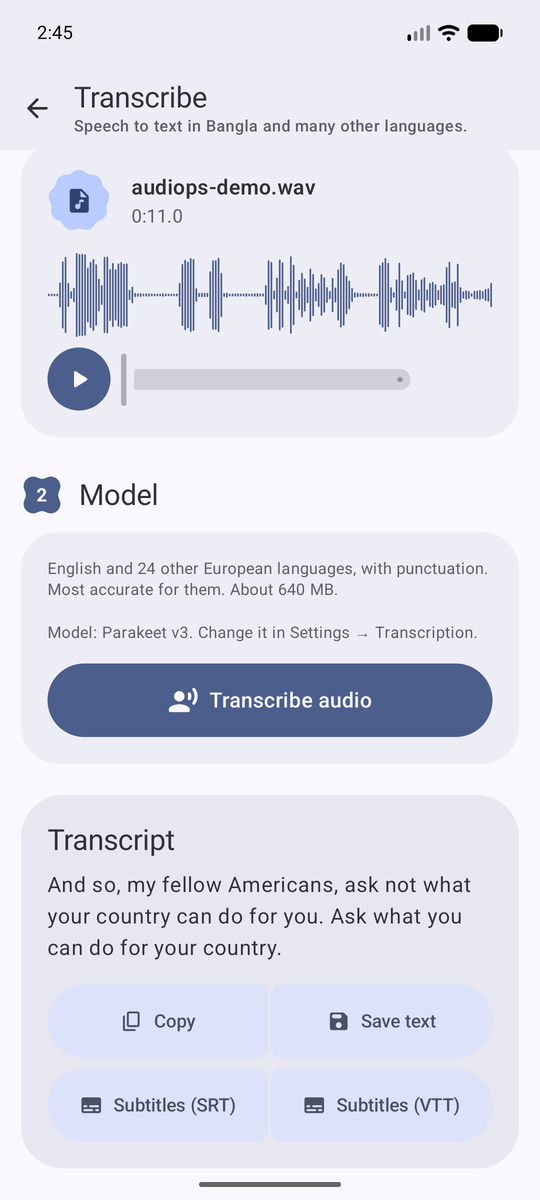
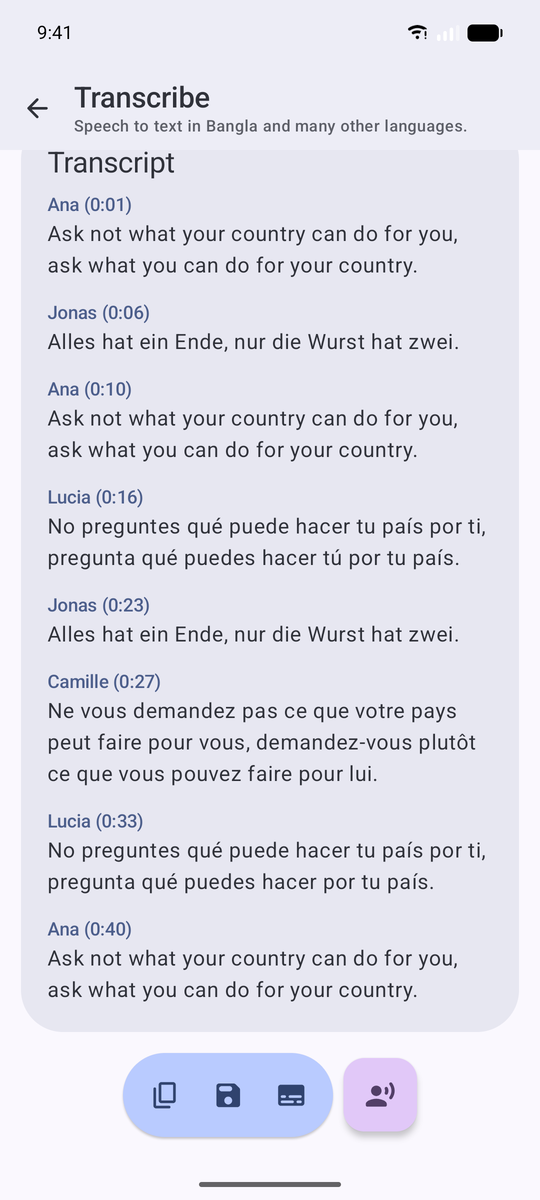
Bring the website and README up to 0.6.1 with new screenshots

diff --git a/website/index.html b/website/index.html
@@ -4,10 +4,10 @@
   <meta charset="utf-8">
   <meta name="viewport" content="width=device-width, initial-scale=1">
   <title>Audiops: on-device audio toolkit for Android</title>
-  <meta name="description" content="Enhance, transcribe, speak, separate, edit and analyze audio, entirely on your Android phone. Nothing you open is uploaded. Open source.">
+  <meta name="description" content="On-device audio AI for Android: transcribe files and live meetings with speakers in Bangla and 1,600+ languages, speak text in 37, enhance, separate, edit and analyze audio. Nothing is uploaded. Open source.">
   <meta name="theme-color" content="#5B47C8">
   <meta property="og:title" content="Audiops: on-device audio toolkit">
-  <meta property="og:description" content="Clean up, edit, transcribe, speak and analyze audio on your phone. Nothing is uploaded.">
+  <meta property="og:description" content="On-device audio AI: transcribe meetings with speakers, speak text, clean up and edit audio on your phone. Nothing is uploaded.">
   <meta property="og:type" content="website">
   <meta property="og:image" content="images/screenshots/tools.png">
   <link rel="icon" href="images/logo.svg" type="image/svg+xml">
@@ -25,6 +25,7 @@
     </a>
     <nav class="nav__links" aria-label="Main">
       <a href="#features">Features</a>
+      <a href="#languages">Languages</a>
       <a href="#privacy">Privacy</a>
       <a href="#build">Build</a>
     </nav>
@@ -38,10 +39,11 @@
     <div class="wrap hero__grid">
       <div class="hero__copy">
         <p class="eyebrow">Open source · Android 8.0+</p>
-        <h1>Transform audio,<br>without the cloud.</h1>
+        <h1>On-device audio AI,<br>without the cloud.</h1>
         <p class="lede">
-          Enhance, transcribe, speak, separate, edit and analyze recordings entirely on your phone.
-          Nothing you open is uploaded. The AI models download once, then run offline.
+          Transcribe recordings and live meetings with every speaker named, turn text into natural speech,
+          and enhance, separate, edit and analyze audio, entirely on your phone. In Bangla and well over
+          a thousand other languages. Nothing you open is uploaded; the AI models download once, then run offline.
         </p>
         <div class="actions">
           <a class="btn btn--primary" href="https://github.com/sayedshaun/audiops/releases/latest">
@@ -58,7 +60,7 @@
 
       <div class="hero__visual">
         <figure class="phone">
-          <img src="images/screenshots/tools.png" alt="Audiops Tools screen with a recording loaded and the AI tools" width="540" height="1200" loading="eager">
+          <img src="images/screenshots/tools.png" alt="Audiops Tools tab: the Audiops wordmark, Choose file and Record, and the AI tools as large tiles" width="540" height="1200" loading="eager">
         </figure>
       </div>
     </div>
@@ -68,9 +70,9 @@
   <section class="section" id="features">
     <div class="wrap">
       <header class="section__head">
-        <p class="eyebrow">Fourteen tools, one app</p>
-        <h2>Everything you need for a voice note, a podcast or a lecture.</h2>
-        <p>Pick a tool, choose a file (or record one, or share it from another app), and keep the result. Save it as WAV, M4A or Opus. Open MP3, AAC, FLAC, OGG and anything else your phone can decode.</p>
+        <p class="eyebrow">Fifteen tools, one app</p>
+        <h2>Everything you need for a meeting, a voice note, a podcast or a lecture.</h2>
+        <p>Choose a file (or record one, or share it from another app) and Audiops tells you what it sounds like and which tool to try. Keep the result as WAV, M4A or Opus. Open MP3, AAC, FLAC, OGG and anything else your phone can decode.</p>
       </header>
 
       <div class="categories">
@@ -79,8 +81,9 @@
           <ul class="tools">
             <li><strong>Enhance speech</strong><span>Fast noise removal in seconds, or Studio restoration of voice recordings, on device.</span></li>
             <li><strong>Separate music</strong><span>Split a song into vocals, instrumental, drums, bass and other.</span></li>
-            <li><strong>Transcribe</strong><span>Speech to text with punctuation for English and 24 European languages, plus Bangla, Urdu and over 1,600 more. You pick the model: Parakeet, Omnilingual, Whisper or Bangla. Save subtitles as SRT or VTT.</span></li>
-            <li><strong>Text to speech</strong><span>Turn text into speech in 37 languages, on your phone.</span></li>
+            <li><strong>Transcribe</strong><span>Choose the language, then the model for it: punctuated text for English and 24 European languages, a dedicated Bangla model, and over 1,600 more languages with a sentence at every pause. Tell speakers apart, then name them. Save the text or subtitles (SRT, VTT).</span></li>
+            <li><strong>Live meeting</strong><span>Put the phone on the table and the meeting is written down as people speak, with each speaker told apart, even with the screen off. Name the speakers afterwards and Audiops recognises their voices in later meetings.</span></li>
+            <li><strong>Text to speech</strong><span>Natural voices in 37 languages, plus ten extra English voices (US and UK).</span></li>
           </ul>
         </article>
 
@@ -114,11 +117,29 @@
           <h3><span class="dot dot--utilities"></span>Utilities</h3>
           <ul class="tools">
             <li><strong>Convert</strong><span>Anti-aliased resampling to 8, 16, 22.05, 44.1 or 48 kHz.</span></li>
-            <li><strong>Analyze</strong><span>Integrated loudness, peak, RMS, clipping, silence and DC offset.</span></li>
+            <li><strong>Analyze</strong><span>Integrated loudness, peak, RMS, clipping, silence and DC offset, plus the main sounds heard (speech, music, noise and over 500 more).</span></li>
           </ul>
         </article>
       </div>
 
+    </div>
+  </section>
+
+  <!-- Languages -->
+  <section class="section" id="languages" aria-labelledby="languages-title">
+    <div class="wrap">
+      <header class="section__head section__head--center">
+        <p class="eyebrow">Many languages</p>
+        <h2 id="languages-title">Made for the languages people speak.</h2>
+        <p>Audiops starts with the language, not the model. Pick what is spoken and only the models that handle it are offered, the best one first. Features that would only work in English are left out.</p>
+      </header>
+      <ul class="checks">
+        <li>Bangla has its own speech recognition model.</li>
+        <li>Speech to text in over 1,600 languages, with punctuation for English and 24 European languages.</li>
+        <li>Every language gets sentences: a capital letter and its own full stop (।, 。 or .) at each pause.</li>
+        <li>Text to speech in 37 languages.</li>
+        <li>Speaker labels and names work in every language.</li>
+      </ul>
     </div>
   </section>
 
@@ -131,16 +152,16 @@
       </header>
       <div class="shots">
         <figure>
-          <img src="images/screenshots/tool-enhance.png" alt="Enhance speech tool with Fast and Studio modes and a finished result" width="540" height="1200" loading="lazy">
-          <figcaption>Enhance speech: Fast or Studio</figcaption>
+          <img src="images/screenshots/meeting.png" alt="Live meeting in progress: the running time, a level meter, and what each speaker said as they speak" width="540" height="1200" loading="lazy">
+          <figcaption>Live meeting, written down as people speak</figcaption>
         </figure>
         <figure>
-          <img src="images/screenshots/transcript.png" alt="Transcript screen showing text transcribed from a recording" width="540" height="1200" loading="lazy">
-          <figcaption>Transcription, on the device</figcaption>
+          <img src="images/screenshots/speakers.png" alt="Who is speaking? sheet with the first words of each speaker and a name field for each" width="540" height="1200" loading="lazy">
+          <figcaption>Name the speakers once</figcaption>
         </figure>
         <figure>
-          <img src="images/screenshots/activity.png" alt="Activity tab listing finished jobs" width="540" height="1200" loading="lazy">
-          <figcaption>Activity, with the job queue and history</figcaption>
+          <img src="images/screenshots/transcript.png" alt="Transcript in English, German, Spanish and French with each turn headed by the speaker's name and time, and a floating toolbar" width="540" height="1200" loading="lazy">
+          <figcaption>Transcripts with names, in any language</figcaption>
         </figure>
       </div>
     </div>
@@ -159,6 +180,7 @@
         <li>No accounts, no analytics and no server.</li>
         <li>Every model file is pinned to a fixed revision and checked with SHA-256 before use.</li>
         <li>Models live in app-private storage that is excluded from backups.</li>
+        <li>Voice prints of the speakers you name stay on the phone; forget any of them in Settings.</li>
         <li>Delete any model or processed file from Settings, at any time.</li>
       </ul>
     </div>
@@ -202,8 +224,8 @@
         <p>No dates, no promises. Have a request? <a href="https://github.com/sayedshaun/audiops/issues">Open an issue</a>.</p>
       </header>
       <ul class="roadmap">
-        <li>Speaker labels in transcripts</li>
-        <li>Detect sounds in a recording (speech, music, alarms and more)</li>
+        <li>Live captions word by word, in many languages (not English only)</li>
+        <li>Faster AI on the phone's AI chip (NPU)</li>
         <li>A lighter vocoder, so AI enhancement fits phones with 4 GB of RAM</li>
         <li>Stereo stems for music separation</li>
       </ul>

diff --git a/README.md b/README.md
@@ -6,8 +6,8 @@
 
 [![Build and test](https://github.com/sayedshaun/audiops/actions/workflows/android.yml/badge.svg)](https://github.com/sayedshaun/audiops/actions/workflows/android.yml) [![Release](https://img.shields.io/github/v/release/sayedshaun/audiops?include_prereleases&sort=semver&label=release)](https://github.com/sayedshaun/audiops/releases) [![License: Apache 2.0](https://img.shields.io/badge/license-Apache%202.0-blue)](LICENSE) ![Platform](https://img.shields.io/badge/platform-Android-5B47C8) ![Kotlin Multiplatform](https://img.shields.io/badge/Kotlin-Multiplatform-7F52FF?logo=kotlin&logoColor=white) ![Material 3 Expressive](https://img.shields.io/badge/Material%203-Expressive-6750A4?logo=materialdesign&logoColor=white)
 
-**Enhance, transcribe, speak, separate, edit and analyze audio, entirely on your device.**<br>
-Nothing you open is uploaded. AI models download once, then run offline.
+**On-device audio AI: transcribe meetings with speakers, speak text, enhance, separate, edit and analyze audio, entirely on your phone.**<br>
+In Bangla and well over a thousand other languages. Nothing you open is uploaded; AI models download once, then run offline.
 
 [**Download**](https://github.com/sayedshaun/audiops/releases/latest) · [Features](#features) · [Models](#models) · [Screenshots](#screenshots) · [Build from source](#build-from-source) · [Contributing](CONTRIBUTING.md)
 
@@ -18,7 +18,8 @@ Nothing you open is uploaded. AI models download once, then run offline.
 ## Why Audiops
 
 - **Private by design.** Audio never leaves your device. The app has no accounts, no analytics and no server. It asks for the microphone only when you tap Record, and for notifications only to show job progress.
-- **One toolkit, not ten apps.** Fourteen tools behind one consistent interface, with a queue so several jobs can run while you keep working.
+- **Many languages, not English first.** Pick the language and Audiops offers the models that handle it: a dedicated Bangla model, punctuated text for 25 European languages, over 1,600 languages with sentences at every pause, and text to speech in 37. Features that would only work in English are left out.
+- **One toolkit, not ten apps.** Fifteen tools behind one consistent interface, with a queue so several jobs can run while you keep working. Choose a file and Audiops says what it sounds like and suggests the tool to try.
 - **Built for long recordings.** Every tool streams audio in blocks, so a two-hour lecture uses the same memory as a voice note.
 - **Open source, one codebase.** Kotlin and Compose (Compose Multiplatform libraries), built for Android.
 
@@ -28,9 +29,9 @@ Nothing you open is uploaded. AI models download once, then run offline.
 | :-: | --- | --- |
 | ✨ | **Enhance speech** | **Fast** mode removes noise in seconds (DPDFNet); **Studio** mode restores voice recordings with [Resemble Enhance](https://huggingface.co/SayedShaun/resemble-enhance-litert) (LiteRT, mobile export), which takes minutes on a phone. |
 | 🎼 | **Separate music** | Splits a song into vocals, an instrumental, drums, bass and other instruments ([SCNet](https://github.com/starrytong/SCNet), int8 ONNX through ONNX Runtime). |
-| 🗣 | **Transcribe** | Speech to text in Bangla, Urdu and many other languages, with punctuation for English and European languages and a sentence at each pause for the rest; optionally tells the speakers apart ([Parakeet v3](https://huggingface.co/csukuangfj/sherpa-onnx-nemo-parakeet-tdt-0.6b-v3-int8), [Omnilingual ASR](https://huggingface.co/csukuangfj/sherpa-onnx-omnilingual-asr-1600-languages-300M-ctc-int8-2025-11-12), [Whisper Tiny](https://huggingface.co/ippocode/indic-asr-onnx/tree/1f6243ec6dffc4de2db84fe1446576d1ff52c252/models/whisper-tiny) and [Bangla Zipformer](https://huggingface.co/SayedShaun/bangla-zipformer-onnx); sherpa-onnx). |
+| 🗣 | **Transcribe** | Speech to text in Bangla, Urdu and many other languages, with punctuation for English and European languages and a sentence at each pause for the rest; optionally tells the speakers apart, and you can name them afterwards ([Parakeet v3](https://huggingface.co/csukuangfj/sherpa-onnx-nemo-parakeet-tdt-0.6b-v3-int8), [Omnilingual ASR](https://huggingface.co/csukuangfj/sherpa-onnx-omnilingual-asr-1600-languages-300M-ctc-int8-2025-11-12), [Whisper Tiny](https://huggingface.co/ippocode/indic-asr-onnx/tree/1f6243ec6dffc4de2db84fe1446576d1ff52c252/models/whisper-tiny) and [Bangla Zipformer](https://huggingface.co/SayedShaun/bangla-zipformer-onnx); sherpa-onnx). |
 | 👥 | **Live meeting** | Put the phone on the table: it transcribes the meeting as people speak and tells the speakers apart, with the screen off if you like. Saves the transcript (with speakers), subtitles and the recording. Name the speakers afterwards, and Audiops recognises those voices in later meetings (voice prints stay on the phone) ([Silero VAD](https://github.com/snakers4/silero-vad) finds speech, [CAM++](https://github.com/modelscope/3D-Speaker) voice embeddings tell speakers apart, and the transcription model chosen for the language writes it down; sherpa-onnx). |
-| 📣 | **Text to speech** | Turn text into speech in 37 languages, on your phone ([Supertonic 3](https://huggingface.co/Supertone/supertonic-3) through sherpa-onnx for 31 of them, the default; [PocketTTS](https://huggingface.co/litert-community/pocket-tts) through MediaPipe for English, French, German, Spanish, Italian, Portuguese and Dutch; [Piper](https://github.com/rhasspy/piper) voices through sherpa-onnx for 20 more). |
+| 📣 | **Text to speech** | Turn text into speech in 37 languages, on your phone ([Supertonic 3](https://huggingface.co/Supertone/supertonic-3) through sherpa-onnx for 31 of them, the default; [PocketTTS](https://huggingface.co/litert-community/pocket-tts) through MediaPipe for English, French, German, Spanish, Italian, Portuguese and Dutch; [Piper](https://github.com/rhasspy/piper) voices through sherpa-onnx for 20 more; ten [Kokoro](https://huggingface.co/hexgrad/Kokoro-82M) voices for English, US and UK). |
 | 🌊 | **Noise reduction** | [DPDFNet](https://github.com/ceva-ip/DPDFNet) AI speech enhancement (48 kHz) removes background noise on your phone. |
 | ⏸ | **Remove silence** | Shortens long pauses and keeps natural padding. |
 | ✂ | **Trim** | Keep the part you need, chosen on the waveform. |
@@ -39,15 +40,15 @@ Nothing you open is uploaded. AI models download once, then run offline.
 | ⏩ | **Speed and pitch** | 0.5×–2× tempo without changing pitch, ±12 semitones without changing tempo. |
 | 🎚 | **Equalizer** | Voice clarity, bass boost, treble boost, warm, remove rumble and telephone presets. |
 | 🔁 | **Convert** | Anti-aliased resampling to 8, 16, 22.05, 44.1 or 48 kHz. |
-| 📊 | **Analyze** | Integrated loudness, peak, RMS, clipping, silence and DC offset. |
+| 📊 | **Analyze** | Integrated loudness, peak, RMS, clipping, silence and DC offset, and the main sounds heard (speech, music, noise and over 500 more AudioSet classes). |
 
 Open MP3, AAC/M4A, WAV, FLAC, OGG and anything else your device decodes. Results are saved as WAV (mono, 16-bit), M4A or Opus; the format is chosen when you save.
 
-**And around the tools:** waveform previews and playback, an Activity tab with the job queue and history, light, dark and pure-black themes, dynamic color on Android 12+, predictive back, haptics, screen-reader labels and large touch targets.
+**And around the tools:** a suggestion for each recording (speech → Transcribe, noisy speech → Enhance, music → Separate), waveform previews and playback, an Activity tab with the job queue and history, light, dark and pure-black themes, dynamic color on Android 12+, predictive back, haptics, screen-reader labels and large touch targets.
 
 ## Models
 
-Only the two AI tools use machine-learning models. Every other tool is classic signal processing written in Kotlin, with nothing to download.
+The AI tools, noise reduction and the sound suggestions use machine-learning models. Every other tool is classic signal processing written in Kotlin, with nothing to download.
 
 | Tool (option) | Model | Runtime | Files | Download | License |
 | --- | --- | --- | --- | --: | --- |
@@ -57,10 +58,10 @@ Only the two AI tools use machine-learning models. Every other tool is classic s
 | **Text to speech** (31 languages: the default voices) | [Supertonic 3](https://huggingface.co/Supertone/supertonic-3) (Supertone), int8, sherpa-onnx format hosted at [SayedShaun/supertonic-3-sherpa-onnx-int8](https://huggingface.co/SayedShaun/supertonic-3-sherpa-onnx-int8) | sherpa-onnx, CPU | 7 files, shared by every language | ~145 MB | OpenRAIL-M (Supertone), with use restrictions |
 | **Text to speech** (English, French, German, Spanish, Italian, Portuguese, Dutch) | [PocketTTS 100M](https://huggingface.co/litert-community/pocket-tts/tree/03f949ec418ccd4d153008f7ef9c58c754cc0616) (Kyutai), INT8, one file per language | [MediaPipe](https://ai.google.dev/edge/mediapipe) `TextToSpeech`, CPU | 1 file | 125–163 MB per language | CC BY 4.0 (Kyutai) |
 | **Text to speech** (20 more languages) | [Piper](https://github.com/rhasspy/piper) voices, ONNX exports by [k2-fsa](https://huggingface.co/csukuangfj) | sherpa-onnx + eSpeak NG (GPL-3.0), CPU | model, tokens | ~63 MB per voice | CC0, public domain or CC BY 4.0, per voice |
-| **Live meeting** (speech detection) | [Silero VAD v5](https://huggingface.co/deepghs/silero-vad-onnx/tree/193243f7d961b15e6de789d3f90cb0ee867e7b62) (Silero Team), ONNX | sherpa-onnx, CPU | 1 file | ~2 MB | MIT |
 | **Text to speech** (Kokoro, English US and UK) | [Kokoro-82M v1.0](https://huggingface.co/csukuangfj/kokoro-int8-multi-lang-v1_0/tree/57adb37fc0e8d4bd430cfc1b8f8c2294945b9af2) (hexgrad), INT8 | sherpa-onnx + espeak-ng, CPU | model, voices, tokens, lexicons | ~155 MB | Apache 2.0 |
+| **Live meeting, speaker labels, sentences** (speech detection) | [Silero VAD v5](https://huggingface.co/deepghs/silero-vad-onnx/tree/193243f7d961b15e6de789d3f90cb0ee867e7b62) (Silero Team), ONNX | sherpa-onnx, CPU | 1 file | ~2 MB | MIT |
+| **Live meeting, speaker labels** (speakers) | [CAM++ zh/en](https://huggingface.co/csukuangfj/speaker-embedding-models/tree/a8055d6daef723a6a4ecf4de233708575bf4994f) (Alibaba 3D-Speaker), ONNX | sherpa-onnx, CPU | 1 file | ~28 MB | Apache 2.0 |
 | **Sound recognition** (suggestions, Analyze) | [Zipformer audio tagging, small](https://huggingface.co/k2-fsa/sherpa-onnx-zipformer-small-audio-tagging-2024-04-15/tree/c24f9d0fdf7d0b8c0c4f9733aa0cac51fda10c95) (k2-fsa icefall, AudioSet), INT8 | sherpa-onnx, CPU | model, labels | ~27 MB | Apache 2.0 (labels CC BY 4.0) |
-| **Live meeting** (speakers) | [CAM++ zh/en](https://huggingface.co/csukuangfj/speaker-embedding-models/tree/a8055d6daef723a6a4ecf4de233708575bf4994f) (Alibaba 3D-Speaker), ONNX | sherpa-onnx, CPU | 1 file | ~28 MB | Apache 2.0 |
 | **Transcribe** (English and 24 European languages) | [Parakeet TDT 0.6B v3](https://huggingface.co/csukuangfj/sherpa-onnx-nemo-parakeet-tdt-0.6b-v3-int8/tree/ed5d745623472f97cfc2e6c2916ee248798fc5a8) (NVIDIA), INT8 transducer | sherpa-onnx, CPU | encoder, decoder, joiner, tokens | ~640 MB | CC BY 4.0 (NVIDIA) |
 | **Transcribe** (other languages; Whisper Tiny fallback) | [Omnilingual ASR 300M](https://huggingface.co/csukuangfj/sherpa-onnx-omnilingual-asr-1600-languages-300M-ctc-int8-2025-11-12/tree/6abf1ece20cd2308bdb7d13cd78ec1c44fa4c094), CTC INT8 | [sherpa-onnx](https://github.com/k2-fsa/sherpa-onnx), CPU | model, tokens | ~366 MB | Apache 2.0 (Meta Platforms) |
 | **Transcribe** (Whisper Tiny, about 100 languages) | [Whisper Tiny](https://huggingface.co/ippocode/indic-asr-onnx/tree/1f6243ec6dffc4de2db84fe1446576d1ff52c252/models/whisper-tiny), INT8 ONNX | sherpa-onnx, CPU | encoder, decoder, tokens | ~103 MB | MIT (OpenAI) · Apache 2.0 (ONNX export) |
@@ -71,10 +72,12 @@ Only the two AI tools use machine-learning models. Every other tool is classic s
 
 - **Enhance speech** in Studio mode uses Resemble Enhance (Fast mode runs the DPDFNet noise-reduction model instead). Audio is converted to 44.1 kHz mono and processed in one-second chunks with 50% overlap through five networks: a **denoiser**, an **encoder**, a **flow-matching step** (8 midpoint steps, 16 evaluations; upstream uses 16 steps), a **decoder** and a **vocoder** that produces the waveform. Long recordings go through in 20-second windows joined with a crossfade.
 - **Transcribe** and **Live meeting** start with two choices at the top of the screen: the **language** spoken, then the **model** for it. Only models that handle that language are offered, the recommended one first (Bangla → the Bangla model, the 25 European languages → Parakeet, Urdu → Whisper Tiny, everything else → Omnilingual). In the app the models are described by what they do, not by name:
-  - **Parakeet v3** (the default): English and 24 other European languages, with punctuation and capital letters. In our test (FLEURS, 25 clips per language, CPU) it made 2.5 to 4 times fewer errors than Omnilingual on English, French, Spanish and German (word error 2 to 8%) and ran about 1.7 times faster.
-  - **Omnilingual ASR 300M**: over 1,600 languages, no punctuation. If it finds no speech, Whisper Tiny retries.
+  - **Parakeet v3**: English and 24 other European languages, with punctuation and capital letters. In our test (FLEURS, 25 clips per language, CPU) it made 2.5 to 4 times fewer errors than Omnilingual on English, French, Spanish and German (word error 2 to 8%) and ran about 1.7 times faster.
+  - **Omnilingual ASR 300M**: over 1,600 languages. It writes no punctuation, so the recording is cut at pauses (Silero VAD, with a little audio kept on each side) and each part becomes a sentence with the language's full stop.
   - **Whisper Tiny**: about 100 languages, small and fast but less accurate. It is the only model you give a language to, from a list of about 60. It scored better than Omnilingual on Urdu in our benchmark.
-  - **Bangla Zipformer**: Bangla only (20-second sections, beam search).
+  - **Bangla Zipformer**: Bangla only (cut at pauses into sentences ending in ।, beam search).
+- **Speaker labels** (Transcribe's "Tell speakers apart", and every Live meeting) give each part a CAM++ voice embedding and group them by speaker. Named speakers are remembered on the phone and recognised in later transcripts.
+- **Sound suggestions** run the small Zipformer AudioSet tagger over up to three 10-second windows of the chosen recording.
 
 ### Download, verification and storage
 
@@ -87,12 +90,12 @@ Only the two AI tools use machine-learning models. Every other tool is classic s
 
 <div align="center">
 
-<img src="docs/images/screenshots/tools.png" alt="Tools tab with a recording loaded" width="24%">
-<img src="docs/images/screenshots/tool-enhance.png" alt="Enhance speech with Fast and Studio modes and a finished result" width="24%">
-<img src="docs/images/screenshots/transcript.png" alt="Transcript" width="24%">
-<img src="docs/images/screenshots/activity.png" alt="Activity tab with job history" width="24%">
+<img src="docs/images/screenshots/tools.png" alt="Tools tab with the Audiops wordmark and the AI tools as large tiles" width="24%">
+<img src="docs/images/screenshots/meeting.png" alt="Live meeting in progress with what each speaker said" width="24%">
+<img src="docs/images/screenshots/speakers.png" alt="Naming the speakers of a transcript" width="24%">
+<img src="docs/images/screenshots/transcript.png" alt="Transcript in four languages with named speakers and a floating toolbar" width="24%">
 
-<sub>Tools · Enhance speech (Fast and Studio) · Transcription · Activity history</sub>
+<sub>Tools · Live meeting · Naming speakers · Transcript with names</sub>
 
 </div>
 

diff --git a/CHANGES.md b/CHANGES.md
@@ -768,3 +768,4 @@ Parakeet peak RSS 1.3 GB (Omnilingual 1.2 GB); model 639 MB. Output is punctuate
 
 ### Changed
 - AGENTS.md → Repository rules: user-visible features update `website/` (and the README) in the same pull request; the Website workflow deploys it on `main`. The site was last updated for 0.3.0, so it is behind 0.4–0.6.
+- Website and README brought up to 0.6.1: on-device audio AI tagline, fifteen tools, Live meeting, speaker labels and naming, sentences at pauses, sound suggestions, Kokoro voices, a Languages section (website) and a multilingual bullet (README), voice prints in Privacy, roadmap without the shipped items (speaker labels, sound detection) and with multilingual live captions and NPU. New screenshots from the emulator (demo status bar): Tools, Live meeting, naming speakers, transcript with names; the 0.3-era screenshots were removed. Rendered with headless Chrome to check.
